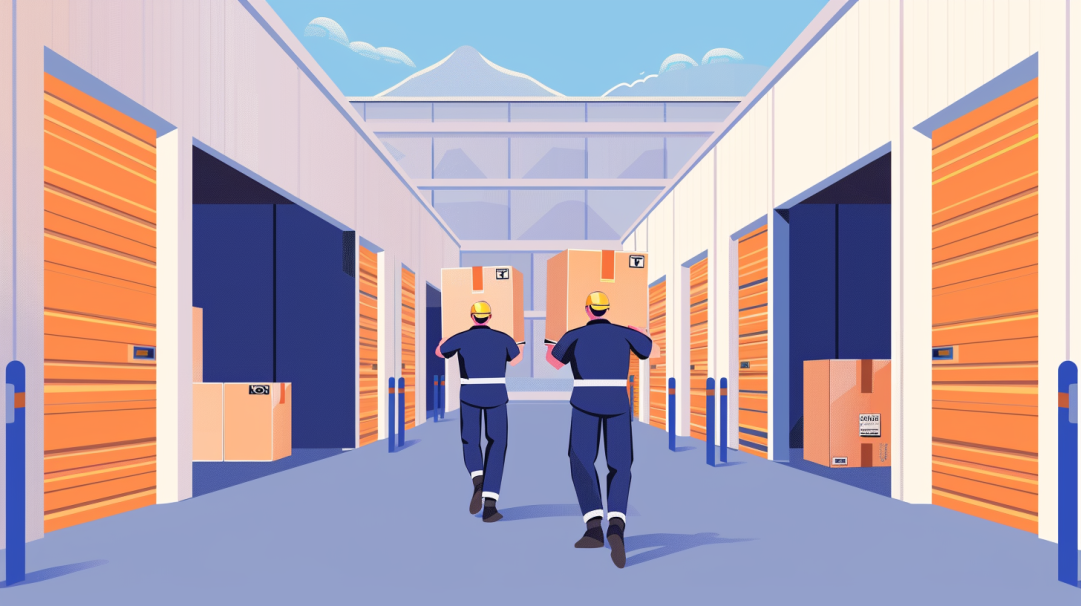
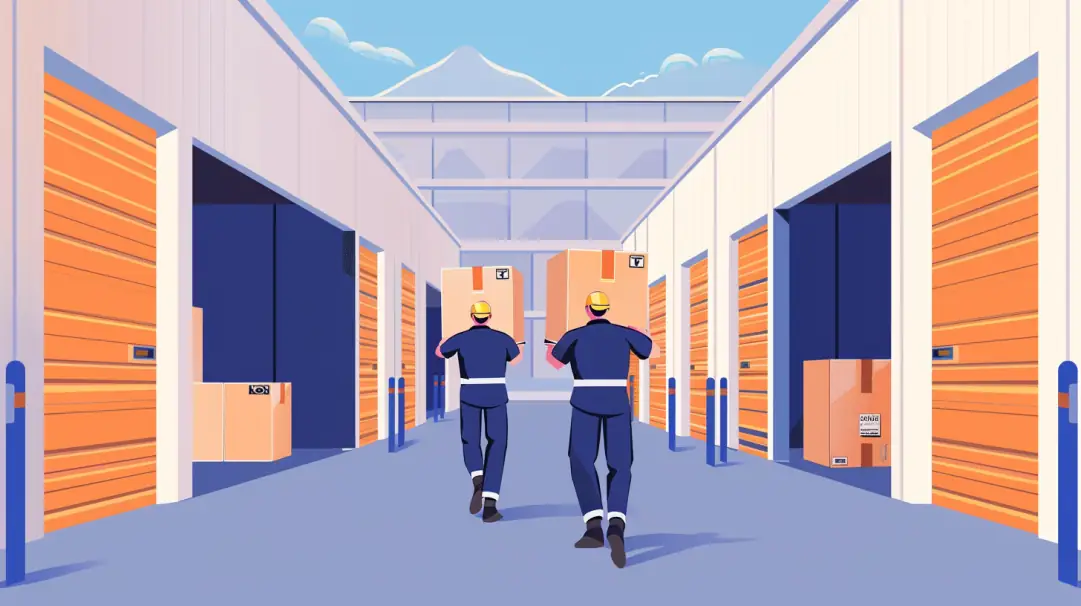
Add image to Hamilton storage blog post
Compressed the supplied storage image (425KB -> 27KB) and set image_url so it shows as the post hero, blog-index thumbnail, and Hamilton city-section card.

diff --git a/blog/index.html b/blog/index.html
@@ -852,7 +852,7 @@ h1, h2, h3, h4 {
   <div class="container">
     <div class="blog-grid">
 <a class="blog-card" href="/blog/storage-facilities-hamilton/">
-  <div class="thumb"></div>
+  <div class="thumb"><img src="/assets/blog/storage-facilities-hamilton.webp" alt="5 Storage Facilities in Hamilton, ON (With Pricing)" loading="lazy"></div>
   <div class="body">
     
     <h2>5 Storage Facilities in Hamilton, ON (With Pricing)</h2>

diff --git a/blog/storage-facilities-hamilton/index.html b/blog/storage-facilities-hamilton/index.html
@@ -844,7 +844,7 @@ h1, h2, h3, h4 {
     </a>
   </div>
 </header>
-
+<div class="post-hero"><img src="/assets/blog/storage-facilities-hamilton.webp" alt="5 Storage Facilities in Hamilton, ON (With Pricing)"></div>
 <div class="post-wrap">
   <a class="post-back" href="/blog/"><svg width="16" height="16" viewBox="0 0 24 24" fill="none" stroke="currentColor" stroke-width="2.5" stroke-linecap="round" stroke-linejoin="round"><line x1="19" y1="12" x2="5" y2="12"/><polyline points="12 19 5 12 12 5"/></svg> Back to all posts</a>
   

diff --git a/hamilton/index.html b/hamilton/index.html
@@ -1064,7 +1064,7 @@ h1, h2, h3, h4 {
     <h2 class="section-heading" style="text-align:center;">Moving Tips for Hamilton</h2>
     <div class="city-blog-grid">
 <a class="city-blog-card" href="/blog/storage-facilities-hamilton/">
-  <div class="city-blog-thumb"></div>
+  <div class="city-blog-thumb"><img src="/assets/blog/storage-facilities-hamilton.webp" alt="5 Storage Facilities in Hamilton, ON (With Pricing)" loading="lazy"></div>
   <div class="city-blog-body">
     <h3>5 Storage Facilities in Hamilton, ON (With Pricing)</h3>
     <p>Storage rates in Hamilton shift regularly and promotions change often, so treat these as starting points and confirm current pricing directly with each facility.</p>